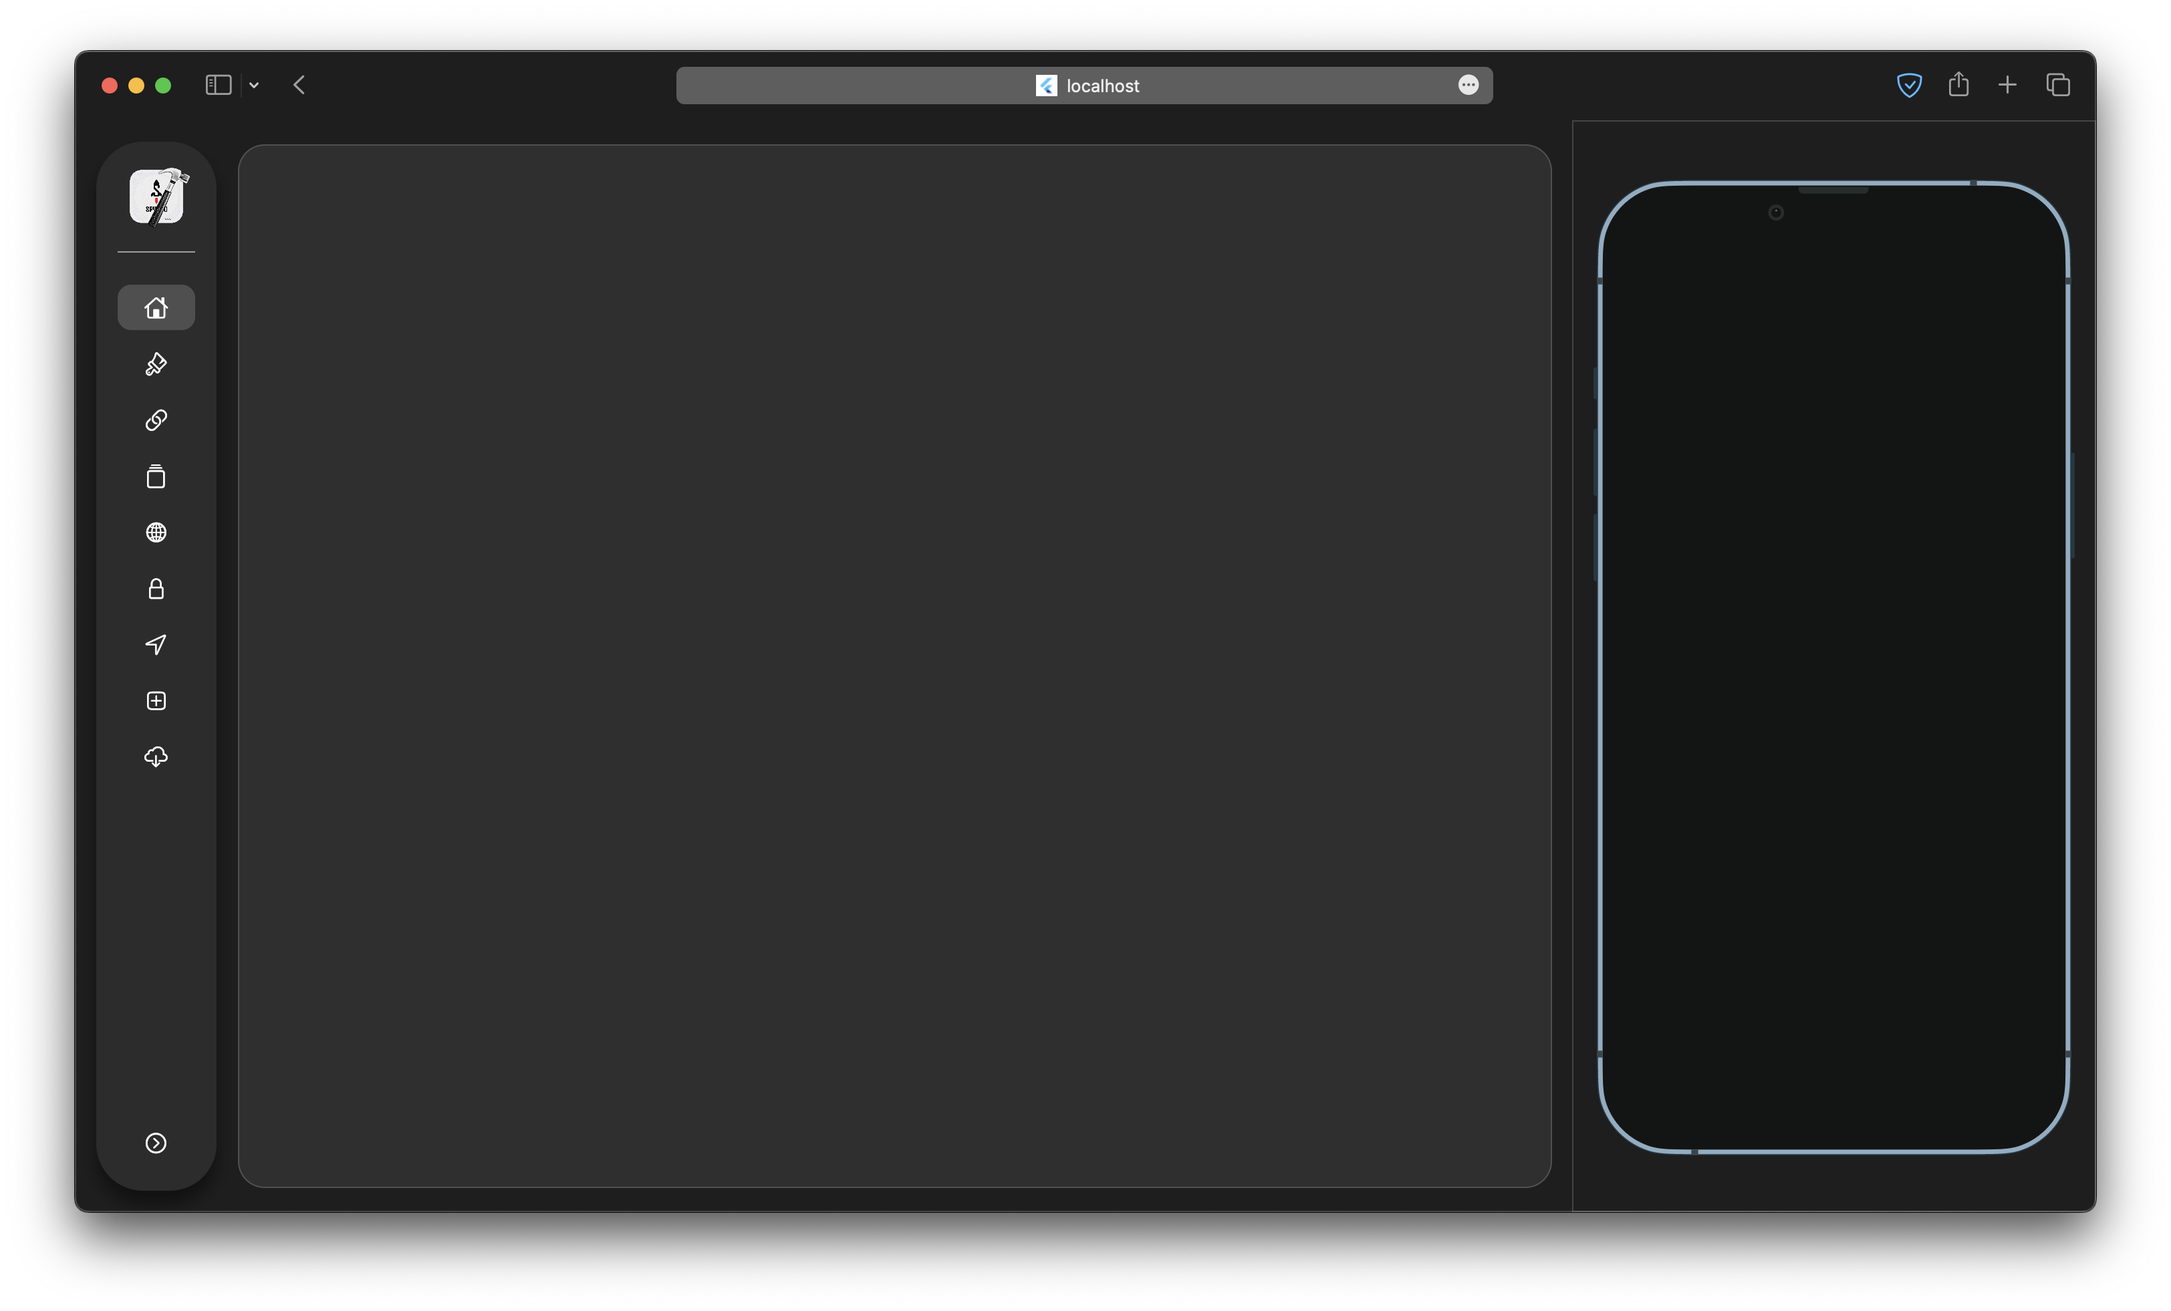
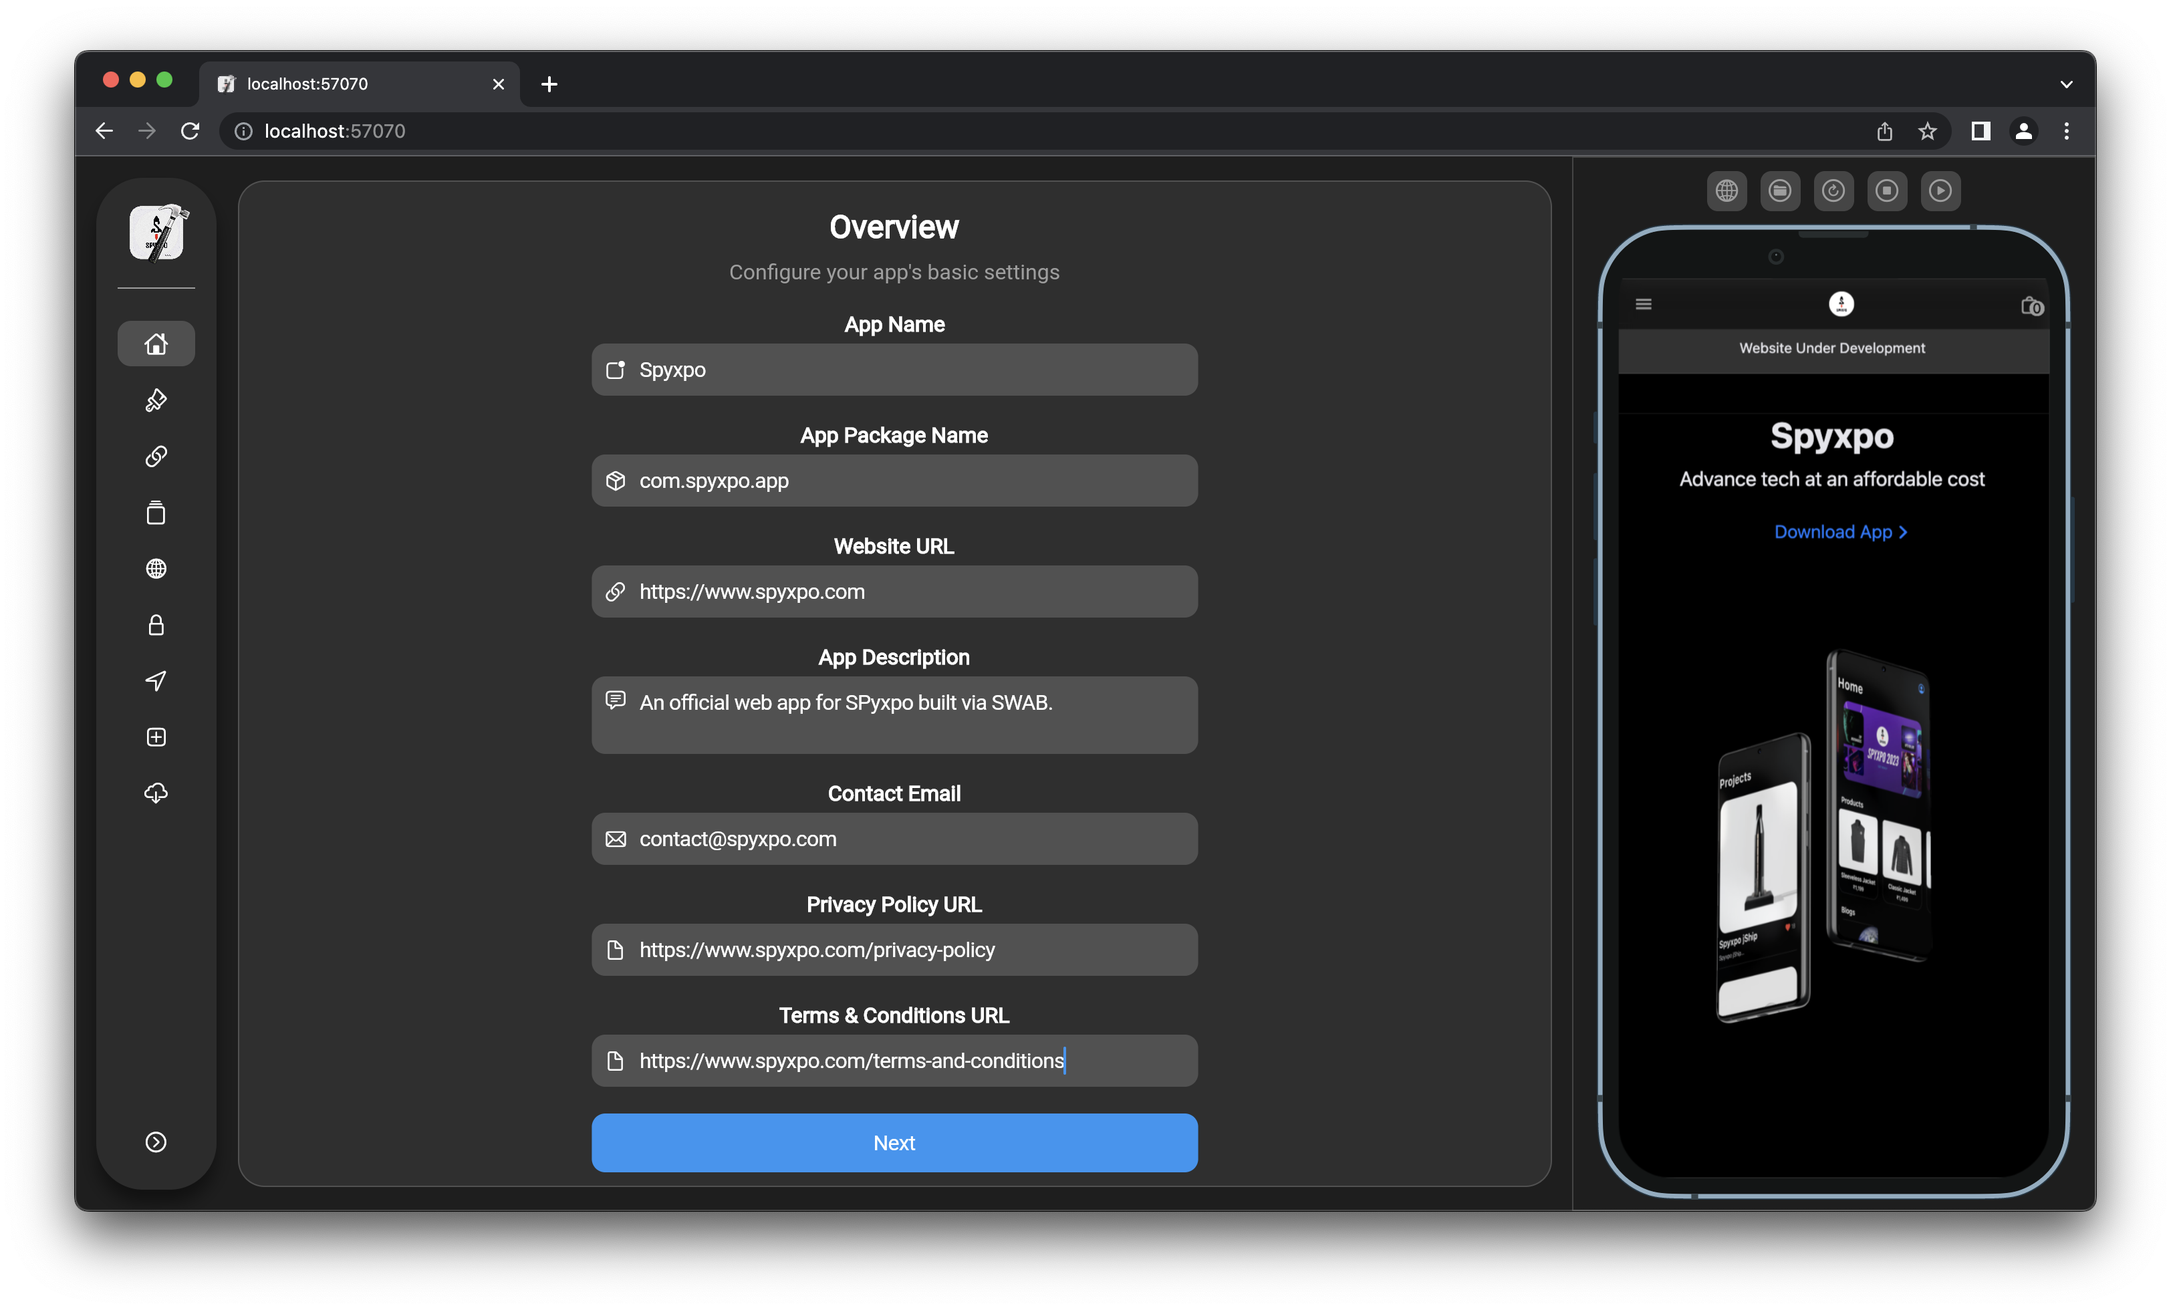
Update

diff --git a/lib/pages/home/home.dart b/lib/pages/home/home.dart
@@ -12,7 +12,15 @@ class Home extends StatefulWidget {
 
 class _HomeState extends State<Home> {
   int activeTab = 0;
+
+  late TextEditingController appNameController = TextEditingController();
+  late TextEditingController appPackageController = TextEditingController();
   late TextEditingController urlController = TextEditingController();
+  late TextEditingController appDescriptionController = TextEditingController();
+  late TextEditingController contactEmailController = TextEditingController();
+  late TextEditingController privacyPolicyController = TextEditingController();
+  late TextEditingController termsAndConditionController =
+      TextEditingController();
 
   final List<SidebarItem> items = [
     SidebarItem(
@@ -56,7 +64,9 @@ class _HomeState extends State<Home> {
   @override
   void initState() {
     super.initState();
-    urlController = TextEditingController();
+    setState(() {
+      urlController = TextEditingController(text: "https://");
+    });
   }
 
   @override
@@ -108,10 +118,10 @@ class _HomeState extends State<Home> {
                 width: 1,
               ),
             ),
-            child: SingleChildScrollView(
+            child: const SingleChildScrollView(
               child: Padding(
-                padding: const EdgeInsets.only(left: 15.0, right: 15.0),
-                child: Simulator(url: urlController.text),
+                padding: EdgeInsets.only(left: 15.0, right: 15.0),
+                child: Simulator(url: 'https://www.spyxpo.com'),
               ),
             ),
           ),
@@ -136,7 +146,328 @@ class _HomeState extends State<Home> {
           child: IndexedStack(
             index: activeTab,
             children: [
-              Container(),
+              Center(
+                child: ScrollConfiguration(
+                  behavior: ScrollConfiguration.of(context)
+                      .copyWith(scrollbars: false),
+                  child: SingleChildScrollView(
+                    child: Column(
+                      children: [
+                        const SizedBox(height: 10),
+                        const Text(
+                          'Overview',
+                          style: TextStyle(
+                            color: Colors.white,
+                            fontSize: 24,
+                            fontWeight: FontWeight.bold,
+                          ),
+                        ),
+                        const SizedBox(height: 10),
+                        const Text(
+                          'Configure your app\'s basic settings',
+                          style: TextStyle(
+                            color: Colors.grey,
+                            fontSize: 16,
+                          ),
+                        ),
+                        const SizedBox(height: 20),
+                        const Text(
+                          'App Name',
+                          style: TextStyle(
+                            color: Colors.white,
+                            fontSize: 16,
+                            fontWeight: FontWeight.bold,
+                          ),
+                        ),
+                        const SizedBox(height: 5),
+                        SizedBox(
+                          width: MediaQuery.of(context).size.width * 0.3,
+                          child: CupertinoTextField(
+                            prefix: const Padding(
+                              padding: EdgeInsets.only(left: 10.0),
+                              child: Icon(
+                                CupertinoIcons.app_badge,
+                                color: Colors.white,
+                                size: 16,
+                              ),
+                            ),
+                            padding: const EdgeInsets.all(10),
+                            decoration: BoxDecoration(
+                              color: Colors.grey.withOpacity(0.3),
+                              borderRadius: BorderRadius.circular(10),
+                            ),
+                            controller: appNameController,
+                            placeholder: 'Enter App Name',
+                            placeholderStyle: const TextStyle(
+                              color: Colors.grey,
+                              fontSize: 16,
+                            ),
+                            style: const TextStyle(
+                              color: Colors.white,
+                              fontSize: 16,
+                            ),
+                          ),
+                        ),
+                        const SizedBox(height: 20),
+                        const Text(
+                          'App Package Name',
+                          style: TextStyle(
+                            color: Colors.white,
+                            fontSize: 16,
+                            fontWeight: FontWeight.bold,
+                          ),
+                        ),
+                        const SizedBox(height: 5),
+                        SizedBox(
+                          width: MediaQuery.of(context).size.width * 0.3,
+                          child: CupertinoTextField(
+                            prefix: const Padding(
+                              padding: EdgeInsets.only(left: 10.0),
+                              child: Icon(
+                                CupertinoIcons.cube_box,
+                                color: Colors.white,
+                                size: 16,
+                              ),
+                            ),
+                            padding: const EdgeInsets.all(10),
+                            decoration: BoxDecoration(
+                              color: Colors.grey.withOpacity(0.3),
+                              borderRadius: BorderRadius.circular(10),
+                            ),
+                            controller: appPackageController,
+                            placeholder: 'com.example.app',
+                            placeholderStyle: const TextStyle(
+                              color: Colors.grey,
+                              fontSize: 16,
+                            ),
+                            style: const TextStyle(
+                              color: Colors.white,
+                              fontSize: 16,
+                            ),
+                          ),
+                        ),
+                        const SizedBox(height: 20),
+                        const Text(
+                          'Website URL',
+                          style: TextStyle(
+                            color: Colors.white,
+                            fontSize: 16,
+                            fontWeight: FontWeight.bold,
+                          ),
+                        ),
+                        const SizedBox(height: 5),
+                        SizedBox(
+                          width: MediaQuery.of(context).size.width * 0.3,
+                          child: CupertinoTextField(
+                            padding: const EdgeInsets.all(10),
+                            prefix: const Padding(
+                              padding: EdgeInsets.only(left: 10.0),
+                              child: Icon(
+                                CupertinoIcons.link,
+                                color: Colors.white,
+                                size: 16,
+                              ),
+                            ),
+                            decoration: BoxDecoration(
+                              color: Colors.grey.withOpacity(0.3),
+                              borderRadius: BorderRadius.circular(10),
+                            ),
+                            controller: urlController,
+                            placeholder: 'https://www.example.com',
+                            placeholderStyle: const TextStyle(
+                              color: Colors.grey,
+                              fontSize: 16,
+                            ),
+                            onSubmitted: (value) {
+                              setState(() {
+                                urlController.text = value;
+                              });
+                            },
+                            style: const TextStyle(
+                              color: Colors.white,
+                              fontSize: 16,
+                            ),
+                          ),
+                        ),
+                        const SizedBox(height: 20),
+                        const Text(
+                          'App Description',
+                          style: TextStyle(
+                            color: Colors.white,
+                            fontSize: 16,
+                            fontWeight: FontWeight.bold,
+                          ),
+                        ),
+                        const SizedBox(height: 5),
+                        SizedBox(
+                          width: MediaQuery.of(context).size.width * 0.3,
+                          child: CupertinoTextField(
+                            padding: const EdgeInsets.all(10),
+                            prefix: const Padding(
+                              padding:
+                                  EdgeInsets.only(left: 10.0, bottom: 23.0),
+                              child: Icon(
+                                CupertinoIcons.text_bubble,
+                                color: Colors.white,
+                                size: 16,
+                              ),
+                            ),
+                            decoration: BoxDecoration(
+                              color: Colors.grey.withOpacity(0.3),
+                              borderRadius: BorderRadius.circular(10),
+                            ),
+                            controller: appDescriptionController,
+                            placeholder: 'Enter App Description',
+                            placeholderStyle: const TextStyle(
+                              color: Colors.grey,
+                              fontSize: 16,
+                            ),
+                            maxLines: 2,
+                            style: const TextStyle(
+                              color: Colors.white,
+                              fontSize: 16,
+                            ),
+                          ),
+                        ),
+                        const SizedBox(height: 20),
+                        const Text(
+                          'Contact Email',
+                          style: TextStyle(
+                            color: Colors.white,
+                            fontSize: 16,
+                            fontWeight: FontWeight.bold,
+                          ),
+                        ),
+                        const SizedBox(height: 5),
+                        SizedBox(
+                          width: MediaQuery.of(context).size.width * 0.3,
+                          child: CupertinoTextField(
+                            padding: const EdgeInsets.all(10),
+                            decoration: BoxDecoration(
+                              color: Colors.grey.withOpacity(0.3),
+                              borderRadius: BorderRadius.circular(10),
+                            ),
+                            prefix: const Padding(
+                              padding: EdgeInsets.only(left: 10.0),
+                              child: Icon(
+                                CupertinoIcons.mail,
+                                color: Colors.white,
+                                size: 16,
+                              ),
+                            ),
+                            controller: contactEmailController,
+                            placeholder: 'contact@example.com',
+                            keyboardType: TextInputType.emailAddress,
+                            placeholderStyle: const TextStyle(
+                              color: Colors.grey,
+                              fontSize: 16,
+                            ),
+                            style: const TextStyle(
+                              color: Colors.white,
+                              fontSize: 16,
+                            ),
+                          ),
+                        ),
+                        const SizedBox(height: 20),
+                        const Text(
+                          'Privacy Policy URL',
+                          style: TextStyle(
+                            color: Colors.white,
+                            fontSize: 16,
+                            fontWeight: FontWeight.bold,
+                          ),
+                        ),
+                        const SizedBox(height: 5),
+                        SizedBox(
+                          width: MediaQuery.of(context).size.width * 0.3,
+                          child: CupertinoTextField(
+                            padding: const EdgeInsets.all(10),
+                            prefix: const Padding(
+                              padding: EdgeInsets.only(left: 10.0),
+                              child: Icon(
+                                CupertinoIcons.doc,
+                                color: Colors.white,
+                                size: 16,
+                              ),
+                            ),
+                            decoration: BoxDecoration(
+                              color: Colors.grey.withOpacity(0.3),
+                              borderRadius: BorderRadius.circular(10),
+                            ),
+                            controller: privacyPolicyController,
+                            placeholder: 'Privacy Policy URL',
+                            placeholderStyle: const TextStyle(
+                              color: Colors.grey,
+                              fontSize: 16,
+                            ),
+                            style: const TextStyle(
+                              color: Colors.white,
+                              fontSize: 16,
+                            ),
+                          ),
+                        ),
+                        const SizedBox(height: 20),
+                        const Text(
+                          'Terms & Conditions URL',
+                          style: TextStyle(
+                            color: Colors.white,
+                            fontSize: 16,
+                            fontWeight: FontWeight.bold,
+                          ),
+                        ),
+                        const SizedBox(height: 5),
+                        SizedBox(
+                          width: MediaQuery.of(context).size.width * 0.3,
+                          child: CupertinoTextField(
+                            padding: const EdgeInsets.all(10),
+                            prefix: const Padding(
+                              padding: EdgeInsets.only(left: 10.0),
+                              child: Icon(
+                                CupertinoIcons.doc,
+                                color: Colors.white,
+                                size: 16,
+                              ),
+                            ),
+                            decoration: BoxDecoration(
+                              color: Colors.grey.withOpacity(0.3),
+                              borderRadius: BorderRadius.circular(10),
+                            ),
+                            controller: termsAndConditionController,
+                            placeholder: 'Terms & Conditions URL',
+                            placeholderStyle: const TextStyle(
+                              color: Colors.grey,
+                              fontSize: 16,
+                            ),
+                            style: const TextStyle(
+                              color: Colors.white,
+                              fontSize: 16,
+                            ),
+                          ),
+                        ),
+                        const SizedBox(height: 20),
+                        SizedBox(
+                          width: MediaQuery.of(context).size.width * 0.3,
+                          child: CupertinoButton(
+                            padding: const EdgeInsets.all(10),
+                            color: Colors.blue,
+                            borderRadius: BorderRadius.circular(10),
+                            onPressed: () {
+                              setState(() {});
+                            },
+                            child: const Text(
+                              'Next',
+                              style: TextStyle(
+                                color: Colors.white,
+                                fontSize: 16,
+                              ),
+                            ),
+                          ),
+                        ),
+                      ],
+                    ),
+                  ),
+                ),
+              ),
             ],
           ),
         ),
